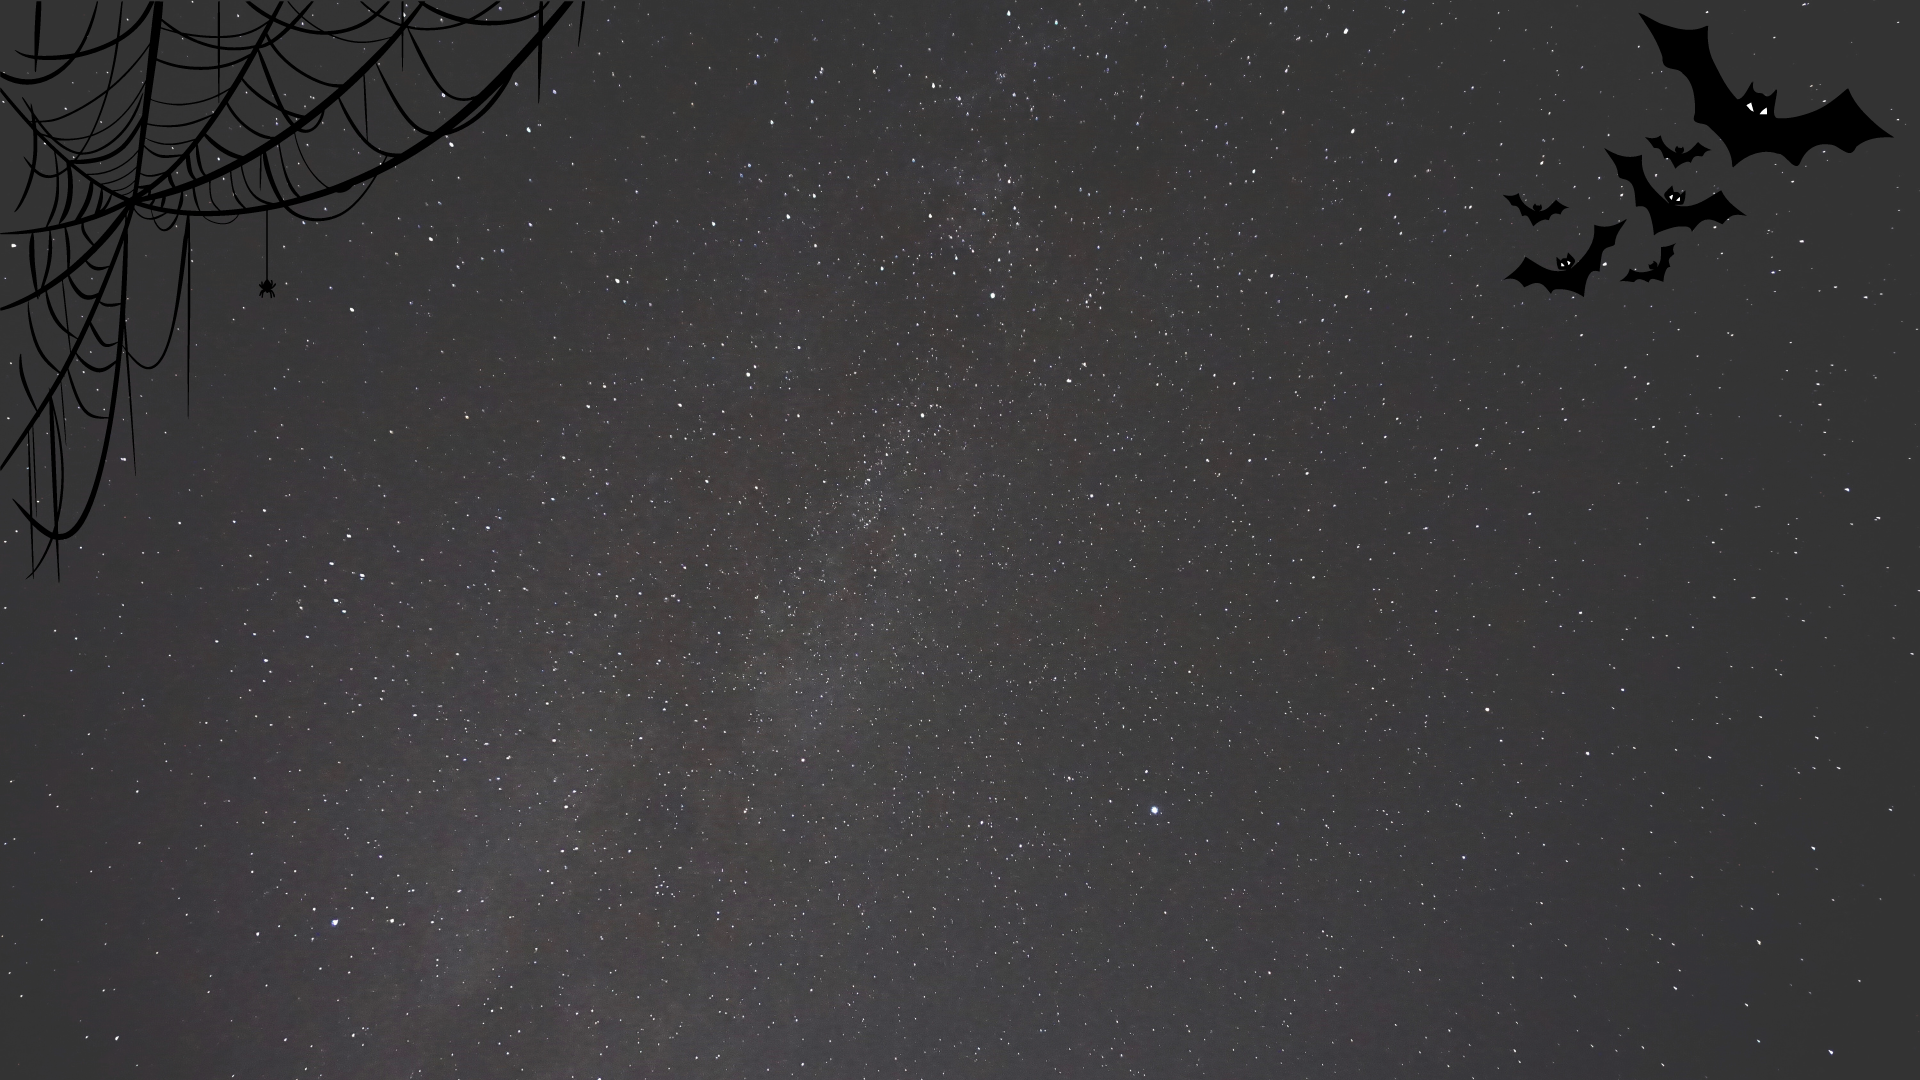
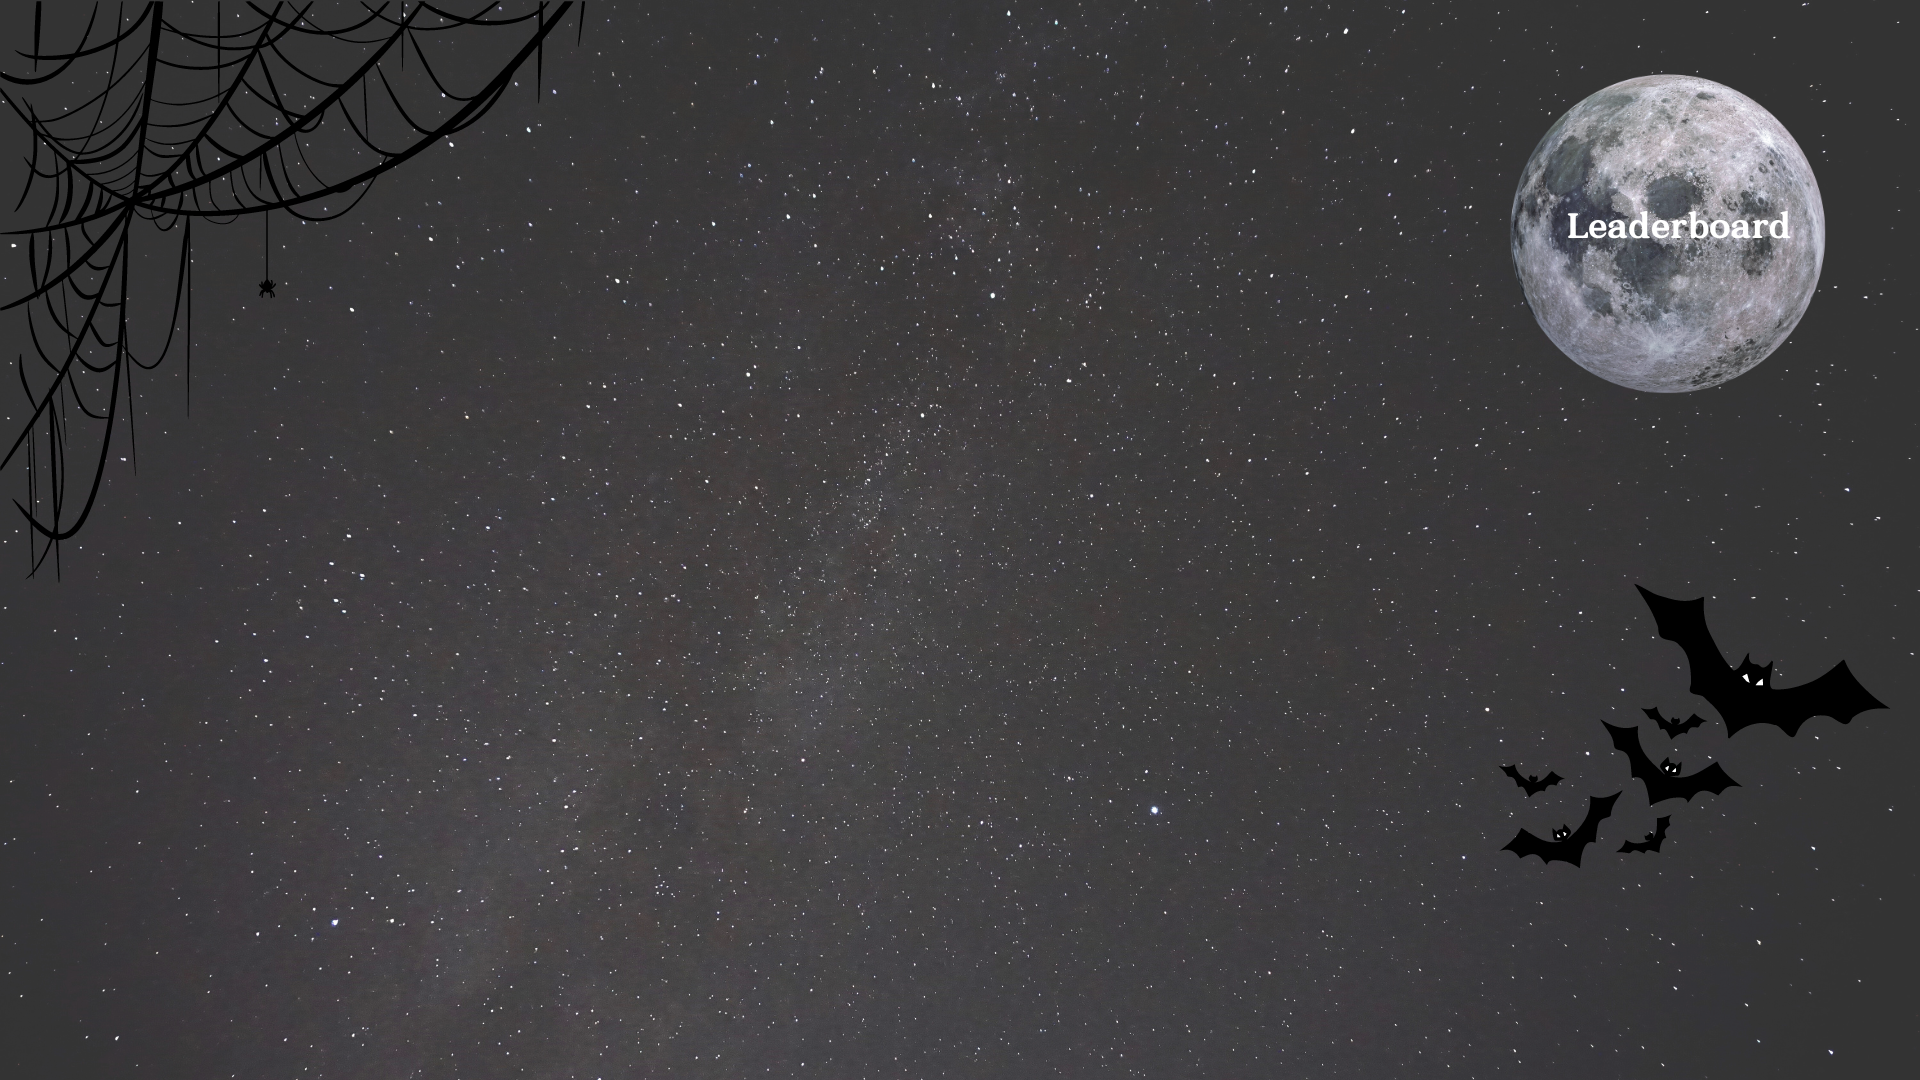
change background image

Changed region(s): [[0.7812, 0.0, 1.0, 0.3667], [0.7812, 0.55, 1.0, 0.7944], [0.7812, 0.7028, 0.8125, 0.7333]]

diff --git a/client/components/EndPage.tsx b/client/components/EndPage.tsx
@@ -38,16 +38,18 @@ export default function EndPage() {
             top: '350px',
           }}
         />
-        <img
-          src="/end-page/lucas-face.png"
-          alt="lucas' face"
-          style={{
-            height: '150px',
-            position: 'absolute',
-            left: '850px',
-            top: '550px',
-          }}
-        />
+        <div>
+          <img
+            src="/end-page/lucas-face.png"
+            alt="lucas' face"
+            style={{
+              height: '150px',
+              position: 'absolute',
+              left: '850px',
+              top: '550px',
+            }}
+          />
+        </div>
         {leaderboard && (
           <div className="popup-overlay">
             <div className="clockface-popup popup">
@@ -68,14 +70,14 @@ export default function EndPage() {
               onMouseEnter={handleMouseEnter}
               onMouseLeave={handleMouseLeave}
               style={{
-                height: '250px',
-                width: '250px',
+                height: '340px',
+                width: '340px',
                 filter: isHovered
-                  ? 'drop-shadow(1px 1px 0 white) drop-shadow(-2px -2px 0 white) drop-shadow(2px -2px 0 white) drop-shadow(-2px 2px 0 white)'
+                  ? 'drop-shadow(1px 1px 10px white) drop-shadow(-2px -2px 10px white) drop-shadow(2px -2px 10px white) drop-shadow(-2px 2px 10px white)'
                   : 'none',
                 position: 'absolute',
-                left: '800px',
-                top: '50px',
+                right: '82px',
+                top: '65px',
               }}
               onClick={handleOpenLeaderboard}
             />

diff --git a/client/components/CluePopups/Leaderboard.tsx b/client/components/CluePopups/Leaderboard.tsx
@@ -17,7 +17,6 @@ export default function Leaderboard({ setLeaderboard, setBlock }: Props) {
         src="/end-page/leaderboard-background.png"
         alt=""
         style={{
-          // height: '700px',
           margin: '0px',
           padding: '0px',
           top: '10px',
